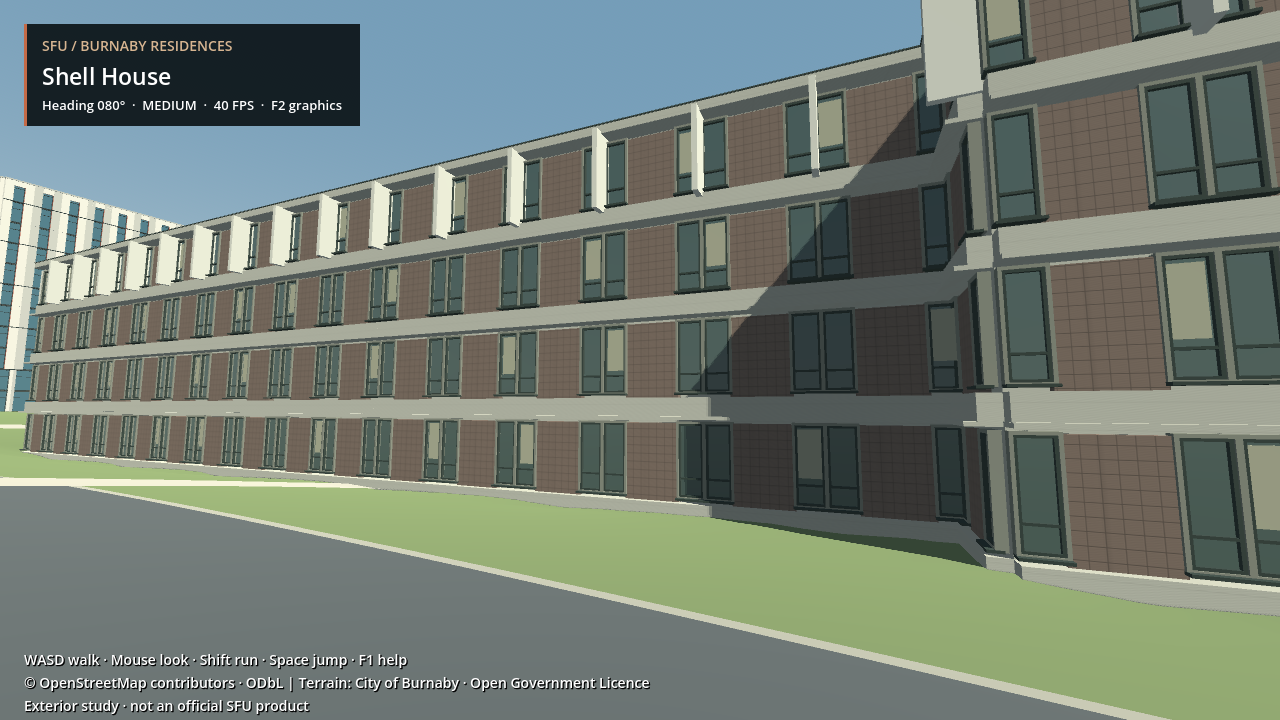
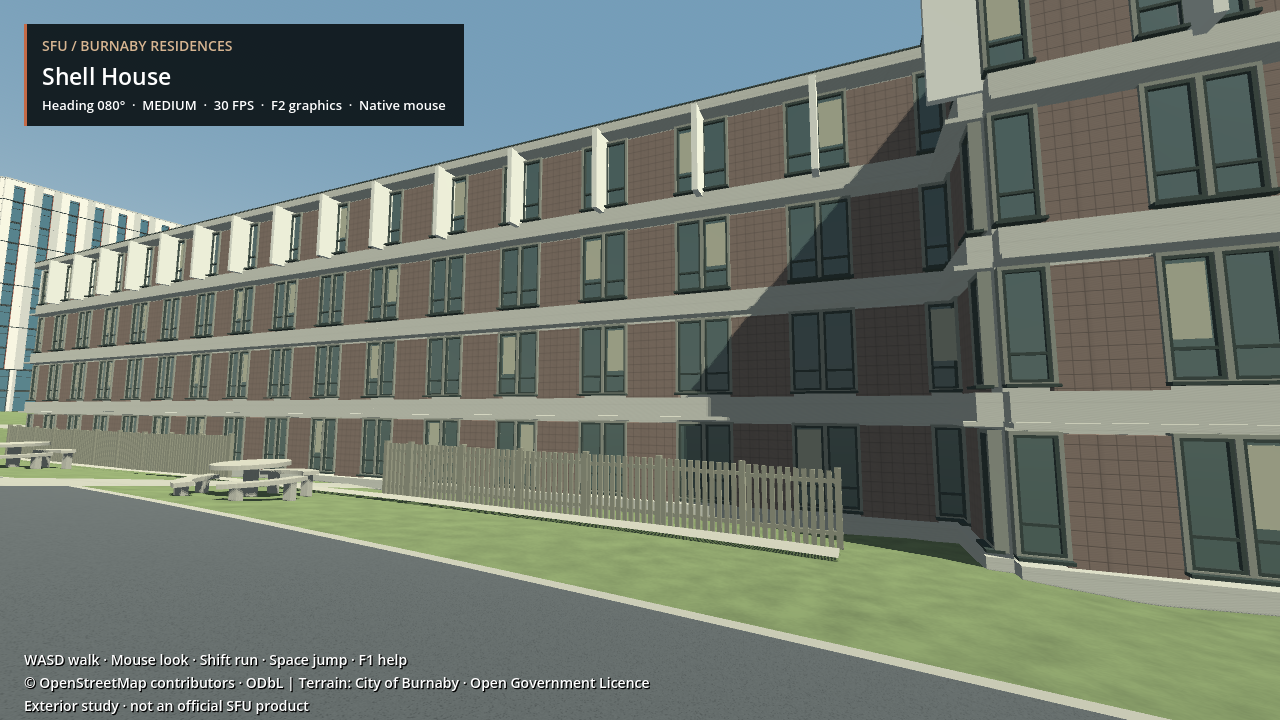
Add photo-based Shell courtyard furniture and preserve pedestrian routes

Changed region(s): [[0.0, 0.5806, 0.6562, 0.7944], [0.2812, 0.0306, 0.375, 0.1833]]

diff --git a/docs/PHASE2_HANDOFF.md b/docs/PHASE2_HANDOFF.md
@@ -1,17 +1,16 @@
-# Phase 2 handoff — 2026-10-17
+# Phase 2 — active checkpoint, 2026-10-18
 
-## CURRENT resume point — site-walk corrections, 2026-10-17
-This section supersedes older completed-camera claims and older usage-stop instructions below.
+The current section supersedes historical camera failures and prior usage-stop notes below. User started a new usage window on October18 and explicitly confirmed the mouse now works. Preserve the existing Windows Raw Input adapter, primary-monitor/fullscreen behavior and host movement forwarding. Do not restart mouse troubleshooting absent a new reported failure.
 
-Priority1 remains physical mouse validation. Native Wayland was insufficient in user's test. Commit926ab25 introduced a Windows raw-input helper while keeping Linux Godot/GDScript/OpenGL. Follow-up fixes: fullscreen default, Windows-primary-monitor placement, tolerate shader/startup stalls, recognize WSLg's immutable original title, visible mouse-lock status. Last user test was BEFORE immutable-title fix and failed; a new test is pending. See PHASE2_MOUSE_CAPTURE.md, /tmp/raw-mouse-stall-qa.log. Escape/focus-loss/disconnect release must be physically confirmed. No dependencies installed.
+Canonical project: outer game/, Godot4.7.2 Standard Linux/GDScript/Compatibility on Debian WSL2. Latest verified commit on resume:729bad2. Approved East/West and townhouse masters, original19 building coordinates, source terrain and preconstruction full Residence Main Lot remain protected.
 
-North gallery now has real inner wall faces and capped reveals. Eye-level view_12 inspected: exposed backside/window artefacts corrected. /tmp/gallery-closed-verification.log passes184 checks and341 route points. Direction/layout unchanged.
+Completed previous checkpoint: capped inner faces/reveals in the correct longitudinal North gallery; separate townhouse terrain-contact plinths and porch-foot extensions. Last full regression:184 physics checks,341 route points,0 failures. Worst townhouse contact views and North gallery eye-level view inspected on GTX1650. Porch approach grades remain unfinished.
 
-Townhouse terrain contact: separate TownhouseGroundContact.gd closes up to0.88m gaps and extends existing porch feet to terrain, without modifying approved master, coordinates, pads or roofs. /tmp/townhouse-contact-verification.log passes184 checks/341 route points; /tmp/townhouse-contact-capture.log completes on GTX1650 Compatibility. contact_0 and contact_1 inspected at worst Cowichan/Qualicum gaps. Porch approach grades/landings still need further refinement; this closes visible gaps rather than claiming all approaches photo-exact.
+Current work: Shell courtyard furnishings from the user's five local photos. Weathered timber screening and round concrete picnic tables with curved concrete seating; west-side placement is an estimate, not a measured site survey. Verified Shell checkpoint: /tmp/shell-courtyard-final-verification.log passes186 physics checks,348 route checkpoints including the new7-point fence-opening route,376 terrain-ray parity checks; preservation/family/photo validators pass. /tmp/shell-courtyard-final-capture.log completes on GTX1650 Compatibility; final shell_3 inspected at eye level. Tables stay clear of the existing route after relocation. Shell steps, annex and exact frontage grade remain unfinished. See PHASE2_SHELL_REVIEW.md. No building geometry changed in this increment.
 
-All latest user requests and targeted evidence are saved in PHASE2_SITE_WALK_CORRECTIONS.md. Remaining: Shell furniture/fence/landings; McTaggart descending approach; Courtyard colonnade/bridge toward West Mall; North parking stairs; East/West surrounding stairs/basketball; Beedie Field. Field's mapped outline and official panorama metadata saved, NOT implemented. The mapped basketball point found far east does not establish the requested court position. No unsupported features placed merely to fill the scene.
+Next priorities: Shell stairs/annex localization; McTaggart descending approach; Courtyard exterior colonnade and bridge toward West Mall; North gallery-to-parking stairs; East/West surrounding stairs and basketball court; Beedie Field. Source details and uncertainties: PHASE2_SITE_WALK_CORRECTIONS.md. Beedie mapped outline is saved but not implemented. Old Street View must not override current East/West, Courtyard, McTaggart or recent paving.
 
-Next concrete action: confirm physical host mouse using normal bash scripts/run_game.sh, HUD Mouse locked, repeated turns, Escape, Alt+Tab, external primary display. If failure, inspect game/docs/raw_mouse_host.log and latest Godot user log before another edit. Then choose one photo-localized exterior circulation feature; finish its collision and visual validation before starting the next.
+Continue sequential verified increments while access remains available. Five hours is the usage-reset window, not a development deadline. Update this section after each milestone; historical quota-stop messages below do not apply to this window.
 
 ## Earlier checkpoint history
 
@@ -85,3 +84,4 @@ User authorizes careful visual inspection of Google Street View or similar. Do n
 Next modeling priority: Shell's immediate surroundings (photo-localized furniture, timber fence, stair landings), then McTaggart descending approach; Courtyard open exterior colonnade and West Mall-facing bridge; North gallery-to-parking stairs; East/West exterior stairs/basketball; Beedie Field. Complete one verified feature at a time. All remain pending except North wall closure and townhouse ground contact completed this iteration. Full pre-construction parking remains confirmed.
 
 Actual host usage signal at final checkpoint: primary100%, ordinaryUsageAllowed=false, rate_limit_reached. Stop after saving tested files. No new modeling started after this signal. Next user-started iteration resumes with this note and PHASE2_SITE_WALK_CORRECTIONS.md, not earlier mouse-failure or usage-stop text.
+

diff --git a/docs/PHASE2_STATUS.md b/docs/PHASE2_STATUS.md
@@ -1,17 +1,16 @@
-# Phase 2 status — 2026-10-17
+# Phase 2 — active checkpoint, 2026-10-18
 
-## CURRENT resume point — site-walk corrections, 2026-10-17
-This section supersedes older completed-camera claims and older usage-stop instructions below.
+The current section supersedes historical camera failures and prior usage-stop notes below. User started a new usage window on October18 and explicitly confirmed the mouse now works. Preserve the existing Windows Raw Input adapter, primary-monitor/fullscreen behavior and host movement forwarding. Do not restart mouse troubleshooting absent a new reported failure.
 
-Priority1 remains physical mouse validation. Native Wayland was insufficient in user's test. Commit926ab25 introduced a Windows raw-input helper while keeping Linux Godot/GDScript/OpenGL. Follow-up fixes: fullscreen default, Windows-primary-monitor placement, tolerate shader/startup stalls, recognize WSLg's immutable original title, visible mouse-lock status. Last user test was BEFORE immutable-title fix and failed; a new test is pending. See PHASE2_MOUSE_CAPTURE.md, /tmp/raw-mouse-stall-qa.log. Escape/focus-loss/disconnect release must be physically confirmed. No dependencies installed.
+Canonical project: outer game/, Godot4.7.2 Standard Linux/GDScript/Compatibility on Debian WSL2. Latest verified commit on resume:729bad2. Approved East/West and townhouse masters, original19 building coordinates, source terrain and preconstruction full Residence Main Lot remain protected.
 
-North gallery now has real inner wall faces and capped reveals. Eye-level view_12 inspected: exposed backside/window artefacts corrected. /tmp/gallery-closed-verification.log passes184 checks and341 route points. Direction/layout unchanged.
+Completed previous checkpoint: capped inner faces/reveals in the correct longitudinal North gallery; separate townhouse terrain-contact plinths and porch-foot extensions. Last full regression:184 physics checks,341 route points,0 failures. Worst townhouse contact views and North gallery eye-level view inspected on GTX1650. Porch approach grades remain unfinished.
 
-Townhouse terrain contact: separate TownhouseGroundContact.gd closes up to0.88m gaps and extends existing porch feet to terrain, without modifying approved master, coordinates, pads or roofs. /tmp/townhouse-contact-verification.log passes184 checks/341 route points; /tmp/townhouse-contact-capture.log completes on GTX1650 Compatibility. contact_0 and contact_1 inspected at worst Cowichan/Qualicum gaps. Porch approach grades/landings still need further refinement; this closes visible gaps rather than claiming all approaches photo-exact.
+Current work: Shell courtyard furnishings from the user's five local photos. Weathered timber screening and round concrete picnic tables with curved concrete seating; west-side placement is an estimate, not a measured site survey. Verified Shell checkpoint: /tmp/shell-courtyard-final-verification.log passes186 physics checks,348 route checkpoints including the new7-point fence-opening route,376 terrain-ray parity checks; preservation/family/photo validators pass. /tmp/shell-courtyard-final-capture.log completes on GTX1650 Compatibility; final shell_3 inspected at eye level. Tables stay clear of the existing route after relocation. Shell steps, annex and exact frontage grade remain unfinished. See PHASE2_SHELL_REVIEW.md. No building geometry changed in this increment.
 
-All latest user requests and targeted evidence are saved in PHASE2_SITE_WALK_CORRECTIONS.md. Remaining: Shell furniture/fence/landings; McTaggart descending approach; Courtyard colonnade/bridge toward West Mall; North parking stairs; East/West surrounding stairs/basketball; Beedie Field. Field's mapped outline and official panorama metadata saved, NOT implemented. The mapped basketball point found far east does not establish the requested court position. No unsupported features placed merely to fill the scene.
+Next priorities: Shell stairs/annex localization; McTaggart descending approach; Courtyard exterior colonnade and bridge toward West Mall; North gallery-to-parking stairs; East/West surrounding stairs and basketball court; Beedie Field. Source details and uncertainties: PHASE2_SITE_WALK_CORRECTIONS.md. Beedie mapped outline is saved but not implemented. Old Street View must not override current East/West, Courtyard, McTaggart or recent paving.
 
-Next concrete action: confirm physical host mouse using normal bash scripts/run_game.sh, HUD Mouse locked, repeated turns, Escape, Alt+Tab, external primary display. If failure, inspect game/docs/raw_mouse_host.log and latest Godot user log before another edit. Then choose one photo-localized exterior circulation feature; finish its collision and visual validation before starting the next.
+Continue sequential verified increments while access remains available. Five hours is the usage-reset window, not a development deadline. Update this section after each milestone; historical quota-stop messages below do not apply to this window.
 
 ## Earlier checkpoint history
 
@@ -75,3 +74,4 @@ User authorizes careful visual inspection of Google Street View or similar. Do n
 Next modeling priority: Shell's immediate surroundings (photo-localized furniture, timber fence, stair landings), then McTaggart descending approach; Courtyard open exterior colonnade and West Mall-facing bridge; North gallery-to-parking stairs; East/West exterior stairs/basketball; Beedie Field. Complete one verified feature at a time. All remain pending except North wall closure and townhouse ground contact completed this iteration. Full pre-construction parking remains confirmed.
 
 Actual host usage signal at final checkpoint: primary100%, ordinaryUsageAllowed=false, rate_limit_reached. Stop after saving tested files. No new modeling started after this signal. Next user-started iteration resumes with this note and PHASE2_SITE_WALK_CORRECTIONS.md, not earlier mouse-failure or usage-stop text.
+

diff --git a/docs/PHASE2_SHELL_REVIEW.md b/docs/PHASE2_SHELL_REVIEW.md
@@ -11,3 +11,15 @@ Photos show three visible levels on the entrance side, whereas original OSM regi
 Verified175 physics checks,333 continuous route checkpoints and preserved-runtime validators: /tmp/shell-verification.log. GTX1650 Compatibility capture complete; all3 shell views visually inspected. Hamilton checkpoint996cd31 and North correctionda90b52 are verified rollback points.
 
 2026-10-17 foundation follow-up: Shell grade stems close the visible gap below the lower facade band using existing terrain samples; foundation/pad and XZ unchanged.175 checks and333 route checkpoints pass in /tmp/shell-grade-verification.log. GTX1650 capture completed, entrance view inspected.
+
+## 2026-10-18 courtyard furnishings
+Added separate ShellCourtyard.gd, leaving Shell facade/roof/entrance coordinates unchanged. User photo1773695185556.jpg establishes weathered vertical timber screening, round exposed-aggregate concrete tables, curved concrete seats and a narrow walk in front of the fence. Shell.jpg corroborates screening beside the entrance and a glazed annex/pergola, which are not yet reconstructed.
+
+Three original modeled picnic sets, two timber screen runs and a narrow terrain-following concrete strip now occupy the west side of the long wing. Furniture dimensions (0.78m tabletop radius,0.75m height,1.05–1.40m curved seat radii), count/spacing and fence endpoints are estimates. West-side identification is inferred from the mapped footprint and opposite parking-facing Street View, not a surveyed photo station. Exact entrance-side grade exposure is still unresolved; this increment does not claim that Shell now matches all photos.
+
+Google Maps visual inspection, October18: panorama d6D17YETbw5Qm5JOp3tzWA,839 Residence Ln, captureJune2015, position49.2794143,-122.923829. Date chooser offered2015/2011 only. The view shows the long rear facade, projecting glazing and parking rather than the fenced picnic frontage. Historical orientation corroboration only; no image extraction or pixels included in game. URL: https://www.google.com/maps/@49.2794143,-122.923829,3a,75y,332.46h,90t/data=!3m4!1e1!3m2!1sd6D17YETbw5Qm5JOp3tzWA!2e0
+Official Facilities plan link redirected to SFU CAS login; no attempt to bypass access.
+
+First regression correctly detected a table obstructing the existing Shell pedestrian route at250,100. Table moved to along-frontage16m, preserving that route rather than changing the test route. Added a separate through-fence-opening route and tabletop/screen collision checks. Final verification pending. Initial GPU views show grounded seats/fence; exact landscaping and three-vs-four exposed storeys remain visibly unfinished. Trees, pergola, stairs and annex await further localization.
+
+Verified Shell checkpoint: /tmp/shell-courtyard-final-verification.log passes186 physics checks,348 route checkpoints including the new7-point fence-opening route,376 terrain-ray parity checks; preservation/family/photo validators pass. /tmp/shell-courtyard-final-capture.log completes on GTX1650 Compatibility; final shell_3 inspected at eye level. Tables stay clear of the existing route after relocation. Shell steps, annex and exact frontage grade remain unfinished.
